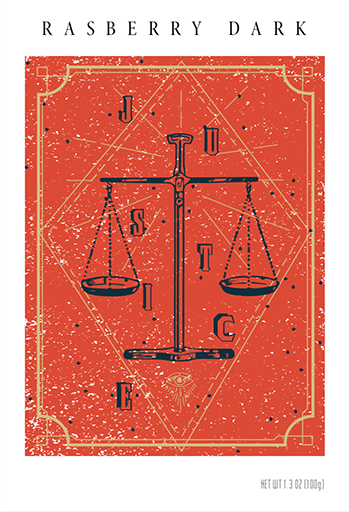
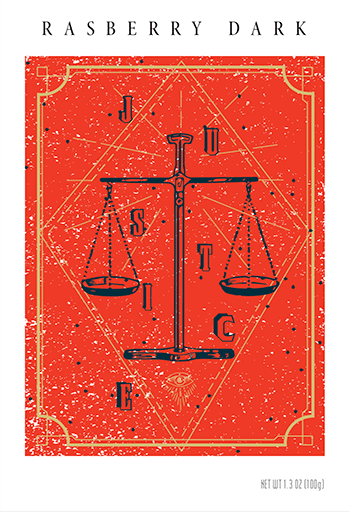
Shrank some of the pictures and played around with lazy loading.

diff --git a/_layouts/default.html b/_layouts/default.html
@@ -1,6 +1,33 @@
 <!DOCTYPE html>
 <html lang="en-US">
    {% include head.html %}
+   <script>
+   document.addEventListener("DOMContentLoaded", function() {
+  var lazyImages = [].slice.call(document.querySelectorAll("img.lazy"));
+  console.log(lazyImages);
+
+  if ("IntersectionObserver" in window) {
+    let lazyImageObserver = new IntersectionObserver(function(entries, observer) {
+      entries.forEach(function(entry) {
+        if (entry.isIntersecting) {
+          console.log("Running");
+          let lazyImage = entry.target;
+          lazyImage.src = lazyImage.dataset.src;
+          // lazyImage.srcset = lazyImage.dataset.srcset;
+          lazyImage.classList.remove("lazy");
+          lazyImageObserver.unobserve(lazyImage);
+        }
+      });
+    });
+
+    lazyImages.forEach(function(lazyImage) {
+      lazyImageObserver.observe(lazyImage);
+    });
+  } else {
+    // Possibly fall back to a more compatible method here
+  }
+});
+   </script>
    <body>
       <div class="grid-warning lemon-bg white centered">
          Hey! It looks like your browser does not support CSS Grids. Most of the layout of this website relies on that feature set so if something looks funny that is probably why.

diff --git a/index.html b/index.html
@@ -7,10 +7,14 @@ layout: default
    {% assign id = i.id | split: "/" %}
    <div class="project {{id.last}}">
       <a href="{{i.url}}" class="centered">
-         <img class="thumbnail" src="{{ i.src | default: "/assets/img/" }}{{ i.thumbnail }}"/>
+        {% if i.lazy %}
+        <img class="thumbnail lazy" src="{{i.lazy}}" data-src="{{ i.src | default: "/assets/img/" }}{{ i.thumbnail }}"/>
+        {% else %}
+        <img class="thumbnail" src="{{ i.src | default: "/assets/img/" }}{{ i.thumbnail }}"/>
+        {% endif %}
          <div class="lemon-bg white">
          <h3>{{i.title}}</h3>
-      </div>
+       </div>
       </a>
    </div>
    {% endfor %}

diff --git a/_sass/type-size.scss b/_sass/type-size.scss
@@ -5,26 +5,6 @@ body {
   /* equivalent to 20px */
 }
 
-// h1 {
-//   font-size: 2em;
-//   /* 2x body copy size = 32px */
-//   line-height: 1.25;
-//   /* 45px / 36px */
-//
-//   @media (min-width: 43.75em) {
-//       font-size: 2.5em;
-//       /* 2.5x body copy size = 40px */
-//       line-height: 1.125;
-//   }
-//
-//   @media (min-width: 56.25em) {
-//       font-size: 3em;
-//       /* 3x body copy size = 48px */
-//       line-height: 1.05;
-//       /* keep to a multiple of the 20px line height and something more appropriate for display headings */
-//   }
-// }
-
 h1 {
    font-size: 1.625em;
    /* 1.625x body copy size = 26px */

diff --git a/_sass/house-of-cards.scss b/_sass/house-of-cards.scss
@@ -37,6 +37,9 @@
 #modula-app {
   justify-content: space-evenly;
   flex-wrap: wrap;
+  min-height: 100vh;
+  height: unset;
+  margin: 1rem 0 1rem 0;
 
   img {
      object-fit: scale-down;

diff --git a/_sass/typography-book.scss b/_sass/typography-book.scss
@@ -2,6 +2,7 @@
    width: 100%;
    padding-top:10em;
    max-width: 100vw;
+   object-fit: contain;
 
    @media (min-width: 32em) {
       width: unset;

diff --git a/_includes/social-icons.html b/_includes/social-icons.html
@@ -34,5 +34,4 @@
     </a>
   </li>
 {% endif %}
-
 </ul>

diff --git a/_projects/typography-book.md b/_projects/typography-book.md
@@ -1,8 +1,8 @@
 ---
 title: "CATCHER IN THE RYE"
 type: "PACKAGING DESIGN"
-thumbnail: "type-book-thumbnail.png"
-banner: "/assets/img/type-book-header.png"
+thumbnail: "type-book-thumbnail.small.png"
+banner: "/assets/img/type-book-header.small.png"
 awards:
   - Auburn University Graphic Design Juried Show (2018)
 description: |
@@ -17,29 +17,29 @@ page_sections:
 - section: type-book-cover
   block: one-column-media
   class: "span-full fill-sm-screen centered"
-  col-1: <img src="/assets/img/type-book-cover.png">
+  col-1: <img src="/assets/img/type-book-cover.jpg">
 - section: type-book-2
   block: one-column-media
   class: "span-full fill-sm-screen centered"
-  col-1: <img class="type-book-mockup" src="/assets/img/type-book-2.png">
+  col-1: <img class="type-book-mockup" src="/assets/img/type-book-2.jpg">
 - section: type-book-4
   block: one-column-media
   class: "span-full fill-sm-screen centered"
-  col-1: <img class="type-book-mockup" src="/assets/img/type-book-4.png">
+  col-1: <img class="type-book-mockup" src="/assets/img/type-book-4.jpg">
 - section: type-book-6
   block: one-column-media
   class: "span-full fill-sm-screen centered"
-  col-1: <img class="type-book-mockup" src="/assets/img/type-book-6.png">
+  col-1: <img class="type-book-mockup" src="/assets/img/type-book-6.jpg">
 - section: type-book-8
   block: one-column-media
   class: "span-full fill-sm-screen centered"
-  col-1: <img class="type-book-mockup" src="/assets/img/type-book-8.png">
+  col-1: <img class="type-book-mockup" src="/assets/img/type-book-8.jpg">
 - section: type-book-10
   block: one-column-media
   class: "span-full fill-sm-screen centered"
-  col-1: <img class="type-book-mockup" src="/assets/img/type-book-10.png">
+  col-1: <img class="type-book-mockup" src="/assets/img/type-book-10.jpg">
 - section: type-book-12
   block: one-column-media
   class: "span-full fill-sm-screen centered"
-  col-1: <img class="type-book-mockup" src="/assets/img/type-book-12.png">
+  col-1: <img class="type-book-mockup" src="/assets/img/type-book-12.jpg">
 ---

diff --git a/_projects/record.md b/_projects/record.md
@@ -1,8 +1,8 @@
 ---
 title: "RECORD PROMOTION"
 type: "PACKAGING DESIGN"
-thumbnail: "record-thumbnail.png"
-banner: "/assets/img/record-front.png"
+thumbnail: "record-thumbnail.jpg"
+banner: "/assets/img/record-front.jpg"
 awards:
   - Auburn University Graphic Design Juried Show (2018)
 description: |
@@ -19,11 +19,11 @@ page_sections:
 - section: record-back
   block: one-column-media
   class: "span-full fill-sm-screen centered"
-  col-1: <img class="record-mockup" src="/assets/img/record-back.png">
+  col-1: <img class="record-mockup" src="/assets/img/record-back.jpg">
 - section: record-front-back
   block: one-column-media
   class: "span-full fill-sm-screen centered"
-  col-1: <img class="record-mockup" src="/assets/img/record-front-back.png">
+  col-1: <img class="record-mockup" src="/assets/img/record-front-back.jpg">
 - section: record-tickets
   block: one-column-media
   class: "span-full fill-sm-screen centered"

diff --git a/_projects/house-of-cards.md b/_projects/house-of-cards.md
@@ -32,10 +32,10 @@ page_sections:
   block: flexbox-media
   class: "fill-screen span-full centered"
   media:
-    - <img src="/assets/img/modula-app-1.jpg">
-    - <img src="/assets/img/modula-app-2.jpg">
-    - <img src="/assets/img/modula-app-3.jpg">
-    - <img src="/assets/img/modula-app-4.jpg">
+    - <img src="/assets/img/modula-app-1.png">
+    - <img src="/assets/img/modula-app-2.png">
+    - <img src="/assets/img/modula-app-3.png">
+    - <img src="/assets/img/modula-app-4.png">
 - section: modula-full
   block: one-column-media
   class: "fill-screen span-full"

diff --git a/_projects/rooster-brewing.md b/_projects/rooster-brewing.md
@@ -30,5 +30,5 @@ page_sections:
 - section: brewery-bottles
   block: one-column-media
   class: "fill-sm-screen span-full centered"
-  col-1: <img class="brewery-picture" src="/assets/img/brewery-bottles.png">
+  col-1: <img class="brewery-picture" src="/assets/img/brewery-bottles.jpg">
 ---

diff --git a/_projects/zoo.md b/_projects/zoo.md
@@ -1,6 +1,6 @@
 ---
 title: "BIRMINGHAM 60TH ANNIVERSARY ZOO POSTER"
-thumbnail: "zoo-thumbnail.png"
+thumbnail: "zoo-thumbnail.small.png"
 banner: "/assets/img/zoo-poster-mockup.jpg"
 awards:
   - Auburn University Graphic Design Juried Show (2017)

diff --git a/_projects/electromagnetic.md b/_projects/electromagnetic.md
@@ -1,7 +1,7 @@
 ---
 title: "ELECTROMAGNETIC"
 type: "KINETIC TYPOGRAPHY"
-thumbnail: "electromagnetic-thumbnail.prog.jpg"
+thumbnail: "electromagnetic-thumbnail.png"
 
 banner: "/assets/svg/electromagnetic.svg"
 awards:
